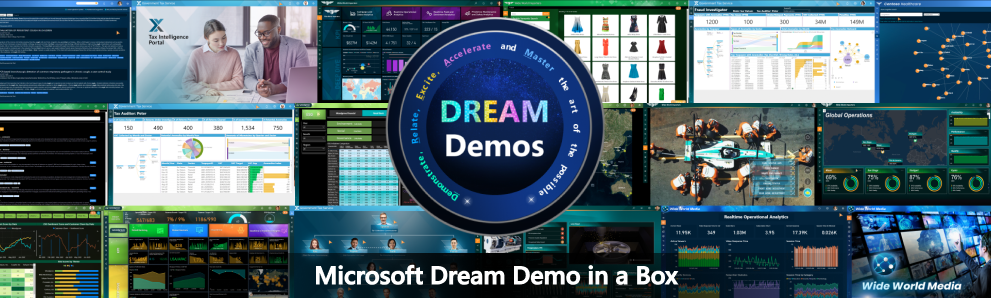
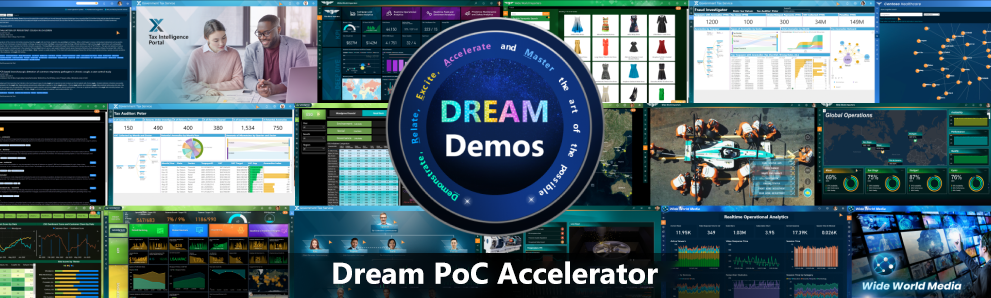
updated ddib to dpoc

Changed region(s): [[0.3027, 0.8758, 0.6963, 0.9966]]

diff --git a/README.md b/README.md
@@ -1,8 +1,8 @@
 <h1 align="center">
   <br/>
-  <a href="https://github.com/microsoft/Azure-Analytics-and-AI-Engagement/"><img src="https://github.com/microsoft/Azure-Analytics-and-AI-Engagement/blob/main/Manufacturing/media/DDiB_Cover.png" alt="Dream Demo in a Box" width="1200" /></a>
+  <a href="https://github.com/microsoft/Azure-Analytics-and-AI-Engagement/"><img src="https://github.com/microsoft/Azure-Analytics-and-AI-Engagement/blob/main/Manufacturing/media/DDiB_Cover.png" alt="Dream PoC Accelerator" width="1200" /></a>
   <br/>
-  POC Accelerator
+  POC Accelerators
   <br/>
 </h1>
 
@@ -11,9 +11,9 @@
 <div align="center">
   <a href="#D">All</a> •
   <a href="https://github.com/microsoft/Azure-Analytics-and-AI-Engagement/blob/fsi/fsidemo/Readme-shell.md">FSI</a> •
-  <a href="https://github.com/microsoft/Azure-Analytics-and-AI-Engagement/blob/fintax/fintaxdemo/Readme-shell.md">Fintax</a> •
+  <a href="https://github.com/microsoft/Azure-Analytics-and-AI-Engagement/blob/fintax/fintaxdemo/Readme-shell.md">Public Finance</a> •
   <a href="https://github.com/microsoft/Azure-Analytics-and-AI-Engagement/blob/retail2.0/retail/Readme-shell.md">Retail</a> •
-  <a href="https://github.com/microsoft/Azure-Analytics-and-AI-Engagement/blob/healthcare/HealthCare/Readme-shell.md">Healthcare</a> •
+  <a href="https://github.com/microsoft/Azure-Analytics-and-AI-Engagement/blob/healthcare2/healthcare2/Readme-shell.md">Healthcare</a> •
   <a href="https://github.com/microsoft/Azure-Analytics-and-AI-Engagement/blob/main/Manufacturing/Readme-shell.md">Manufacturing</a> •
   <a href="https://github.com/microsoft/Azure-Analytics-and-AI-Engagement/blob/media/mediademo/Readme-shell.md">Media</a> •
   <a href="https://github.com/microsoft/Azure-Analytics-and-AI-Engagement/blob/midp-with-cosmos/midpCosmos/Readme-shell.md">MIDP</a>
@@ -25,7 +25,7 @@
 # Setting the scene
 
 ## What is it?
-DREAM Demos in a Box (DDiB) are packaged Industry Scenario DREAM Demos with ARM templates (with a demo web app, Power BI reports, Synapse resources, AML Notebooks etc.) that can be deployed in a customer’s subscription using the CAPE tool in a few hours.  Partners can also deploy DREAM Demos in their own subscriptions using DDiB.
+Dream PoC Accelerators (DPoC) are packaged Industry Scenario DREAM Demos with ARM templates (with a demo web app, Power BI reports, Synapse resources, AML Notebooks etc.) that can be deployed in a customer’s subscription using the CAPE tool in a few hours.  Partners can also deploy DREAM Demos in their own subscriptions using DPoC.
 
  ## Objective & Intent
 Partners can deploy DREAM Demos in their own Azure subscriptions and show live demos to customers. 
@@ -36,8 +36,8 @@ Customers can play,  get hands-on experience navigating through the demo environ
 
   1. **Please read the [license agreement](https://github.com/microsoft/Azure-Analytics-and-AI-Engagement/blob/main/CDP-Retail/license.md) and [disclaimer](https://github.com/microsoft/Azure-Analytics-and-AI-Engagement/blob/main/CDP-Retail/disclaimer.md) before proceeding, as your access to and use of the code made available hereunder is subject to the terms and conditions made available therein.**
   2. Without limiting the terms of the [license](https://github.com/microsoft/Azure-Analytics-and-AI-Engagement/blob/main/CDP-Retail/license.md) , any Partner distribution of the Software (whether directly or indirectly) may only be made through Microsoft’s Customer Acceleration Portal for Engagements (“CAPE”). CAPE is accessible by Microsoft employees. For more information about the CAPE process, please connect with your local Data & AI specialist or CSA/GBB.
-  3. Please note that **Azure hosting costs** are involved when DREAM Demos in a Box are implemented in customer or partner Azure subscriptions. **Microsoft will not cover** DDiB hosting costs for partners or customers.
-  4. Since this is a DDiB, there are certain resources open to the public. **Please ensure proper security practices are followed before you add any sensitive data into the environment.** To strengthen the security posture of the environment, **leverage Azure Security Centre.** 
+  3. Please note that **Azure hosting costs** are involved when Dream PoC Accelerators are implemented in customer or partner Azure subscriptions. **Microsoft will not cover** DPoC hosting costs for partners or customers.
+  4. Since this is a DPoC, there are certain resources open to the public. **Please ensure proper security practices are followed before you add any sensitive data into the environment.** To strengthen the security posture of the environment, **leverage Azure Security Centre.** 
   5.  For any questions or comments please email **[dreamdemos@microsoft.com](mailto:dreamdemos@microsoft.com).**
 
 # Disclaimer 

diff --git a/Manufacturing/Readme-shell.md b/Manufacturing/Readme-shell.md
@@ -1,7 +1,7 @@
-# Manufacturing DREAM Demo in a Box Setup Guide
+# Manufacturing DREAM PoC Accelerator Setup Guide
 
 ## What is it?
-DREAM Demos in a Box (DDiB) are packaged Industry Scenario DREAM Demos with ARM templates (with a demo web app, Power BI reports, Synapse resources, AML Notebooks etc.) that can be deployed in a customer’s subscription using the CAPE tool in a few hours.  Partners can also deploy DREAM Demos in their own subscriptions using DDiB.
+DREAM PoC Accelerators (DPoC) are packaged Industry Scenario DREAM Demos with ARM templates (with a demo web app, Power BI reports, Synapse resources, AML Notebooks etc.) that can be deployed in a customer’s subscription using the CAPE tool in a few hours.  Partners can also deploy DREAM Demos in their own subscriptions using DPoC.
 
  ## Objective & Intent
 Partners can deploy DREAM Demos in their own Azure subscriptions and show live demos to customers. 
@@ -13,8 +13,8 @@ Customers can play,  get hands-on experience navigating through the demo environ
 
   1. **Please read the [license agreement](https://github.com/microsoft/Azure-Analytics-and-AI-Engagement/blob/main/CDP-Retail/license.md) and [disclaimer](https://github.com/microsoft/Azure-Analytics-and-AI-Engagement/blob/main/CDP-Retail/disclaimer.md) before proceeding, as your access to and use of the code made available hereunder is subject to the terms and conditions made available therein.**
   2. Without limiting the terms of the [license](https://github.com/microsoft/Azure-Analytics-and-AI-Engagement/blob/main/CDP-Retail/license.md) , any Partner distribution of the Software (whether directly or indirectly) may only be made through Microsoft’s Customer Acceleration Portal for Engagements (“CAPE”). CAPE is accessible by Microsoft employees. For more information about the CAPE process, please connect with your local Data & AI specialist or CSA/GBB.
-  3. Please note that **Azure hosting costs** are involved when DREAM Demos in a Box are implemented in customer or partner Azure subscriptions. **Microsoft will not cover** DDiB hosting costs for partners or customers.
-  4. Since this is a DDiB, there are certain resources open to the public. **Please ensure proper security practices are followed before you add any sensitive data into the environment.** To strengthen the security posture of the environment, **leverage Azure Security Centre.** 
+  3. Please note that **Azure hosting costs** are involved when DREAM PoC Accelerators are implemented in customer or partner Azure subscriptions. **Microsoft will not cover** DPoC hosting costs for partners or customers.
+  4. Since this is a DPoC, there are certain resources open to the public. **Please ensure proper security practices are followed before you add any sensitive data into the environment.** To strengthen the security posture of the environment, **leverage Azure Security Centre.** 
   5.  For any questions or comments please email **[dreamdemos@microsoft.com](mailto:dreamdemos@microsoft.com).**
   
    > **Note**: Set up your demo environment at least two hours before your scheduled demo to make sure everything is working.
